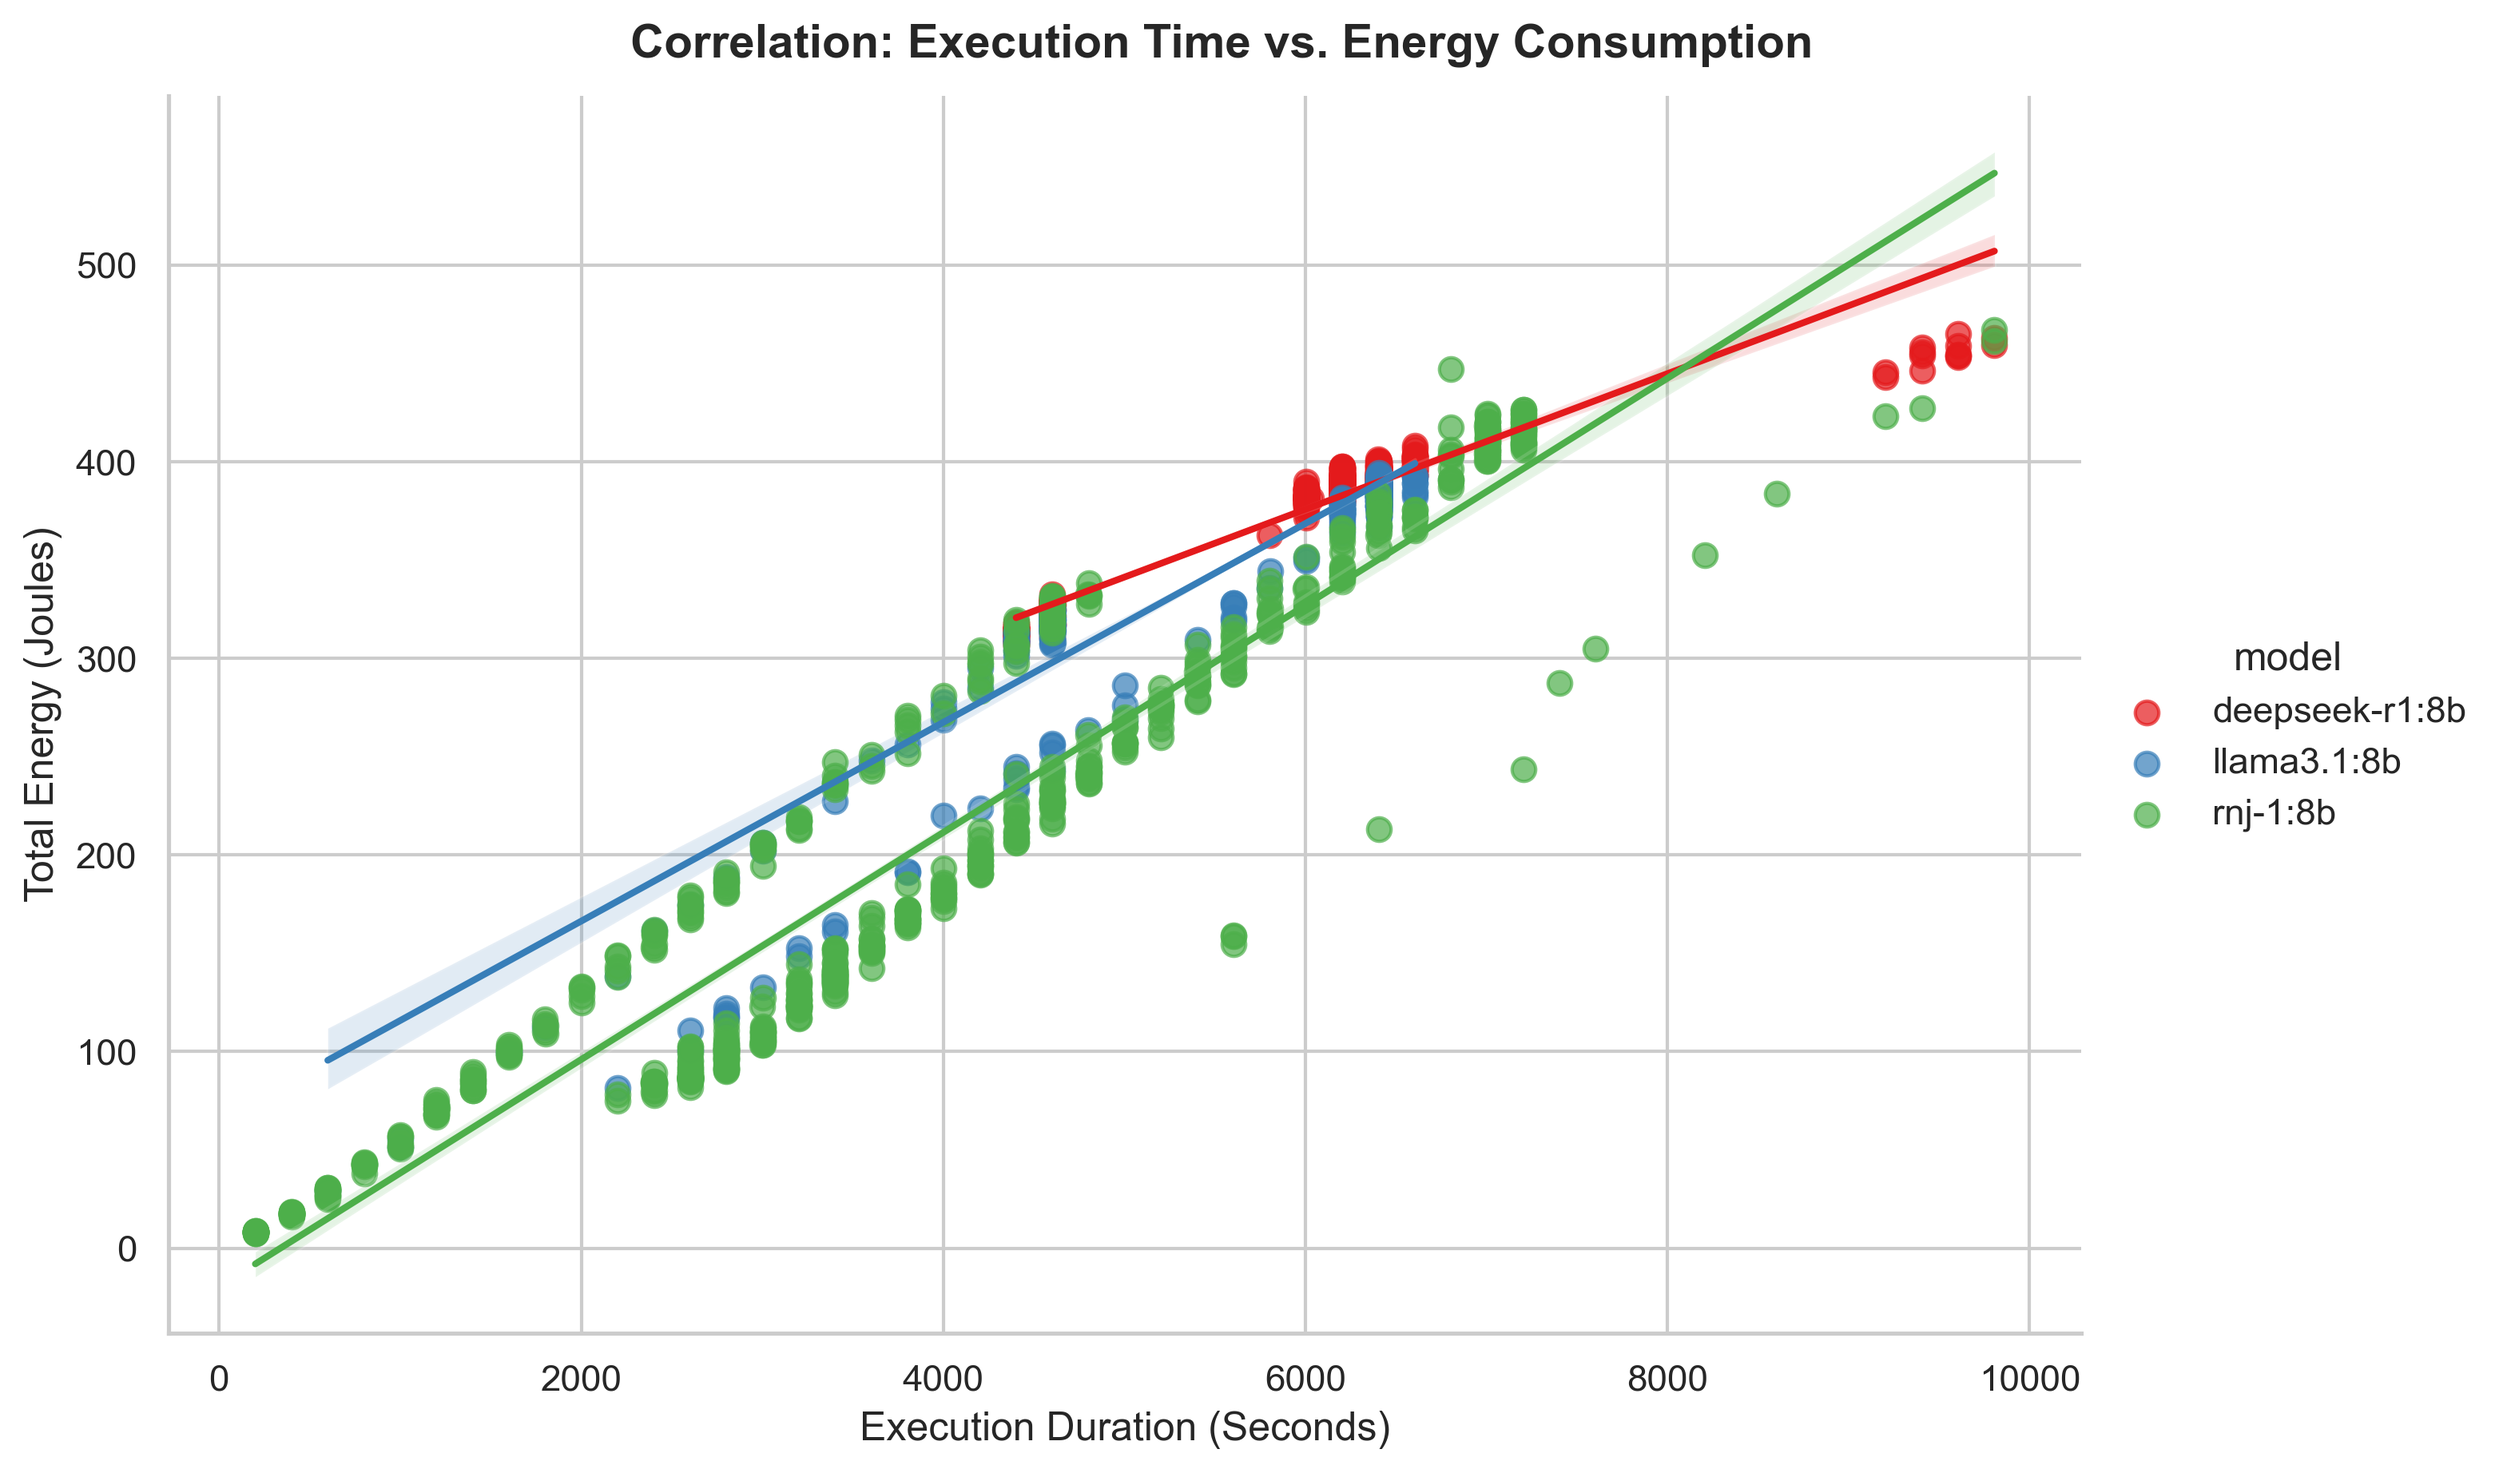
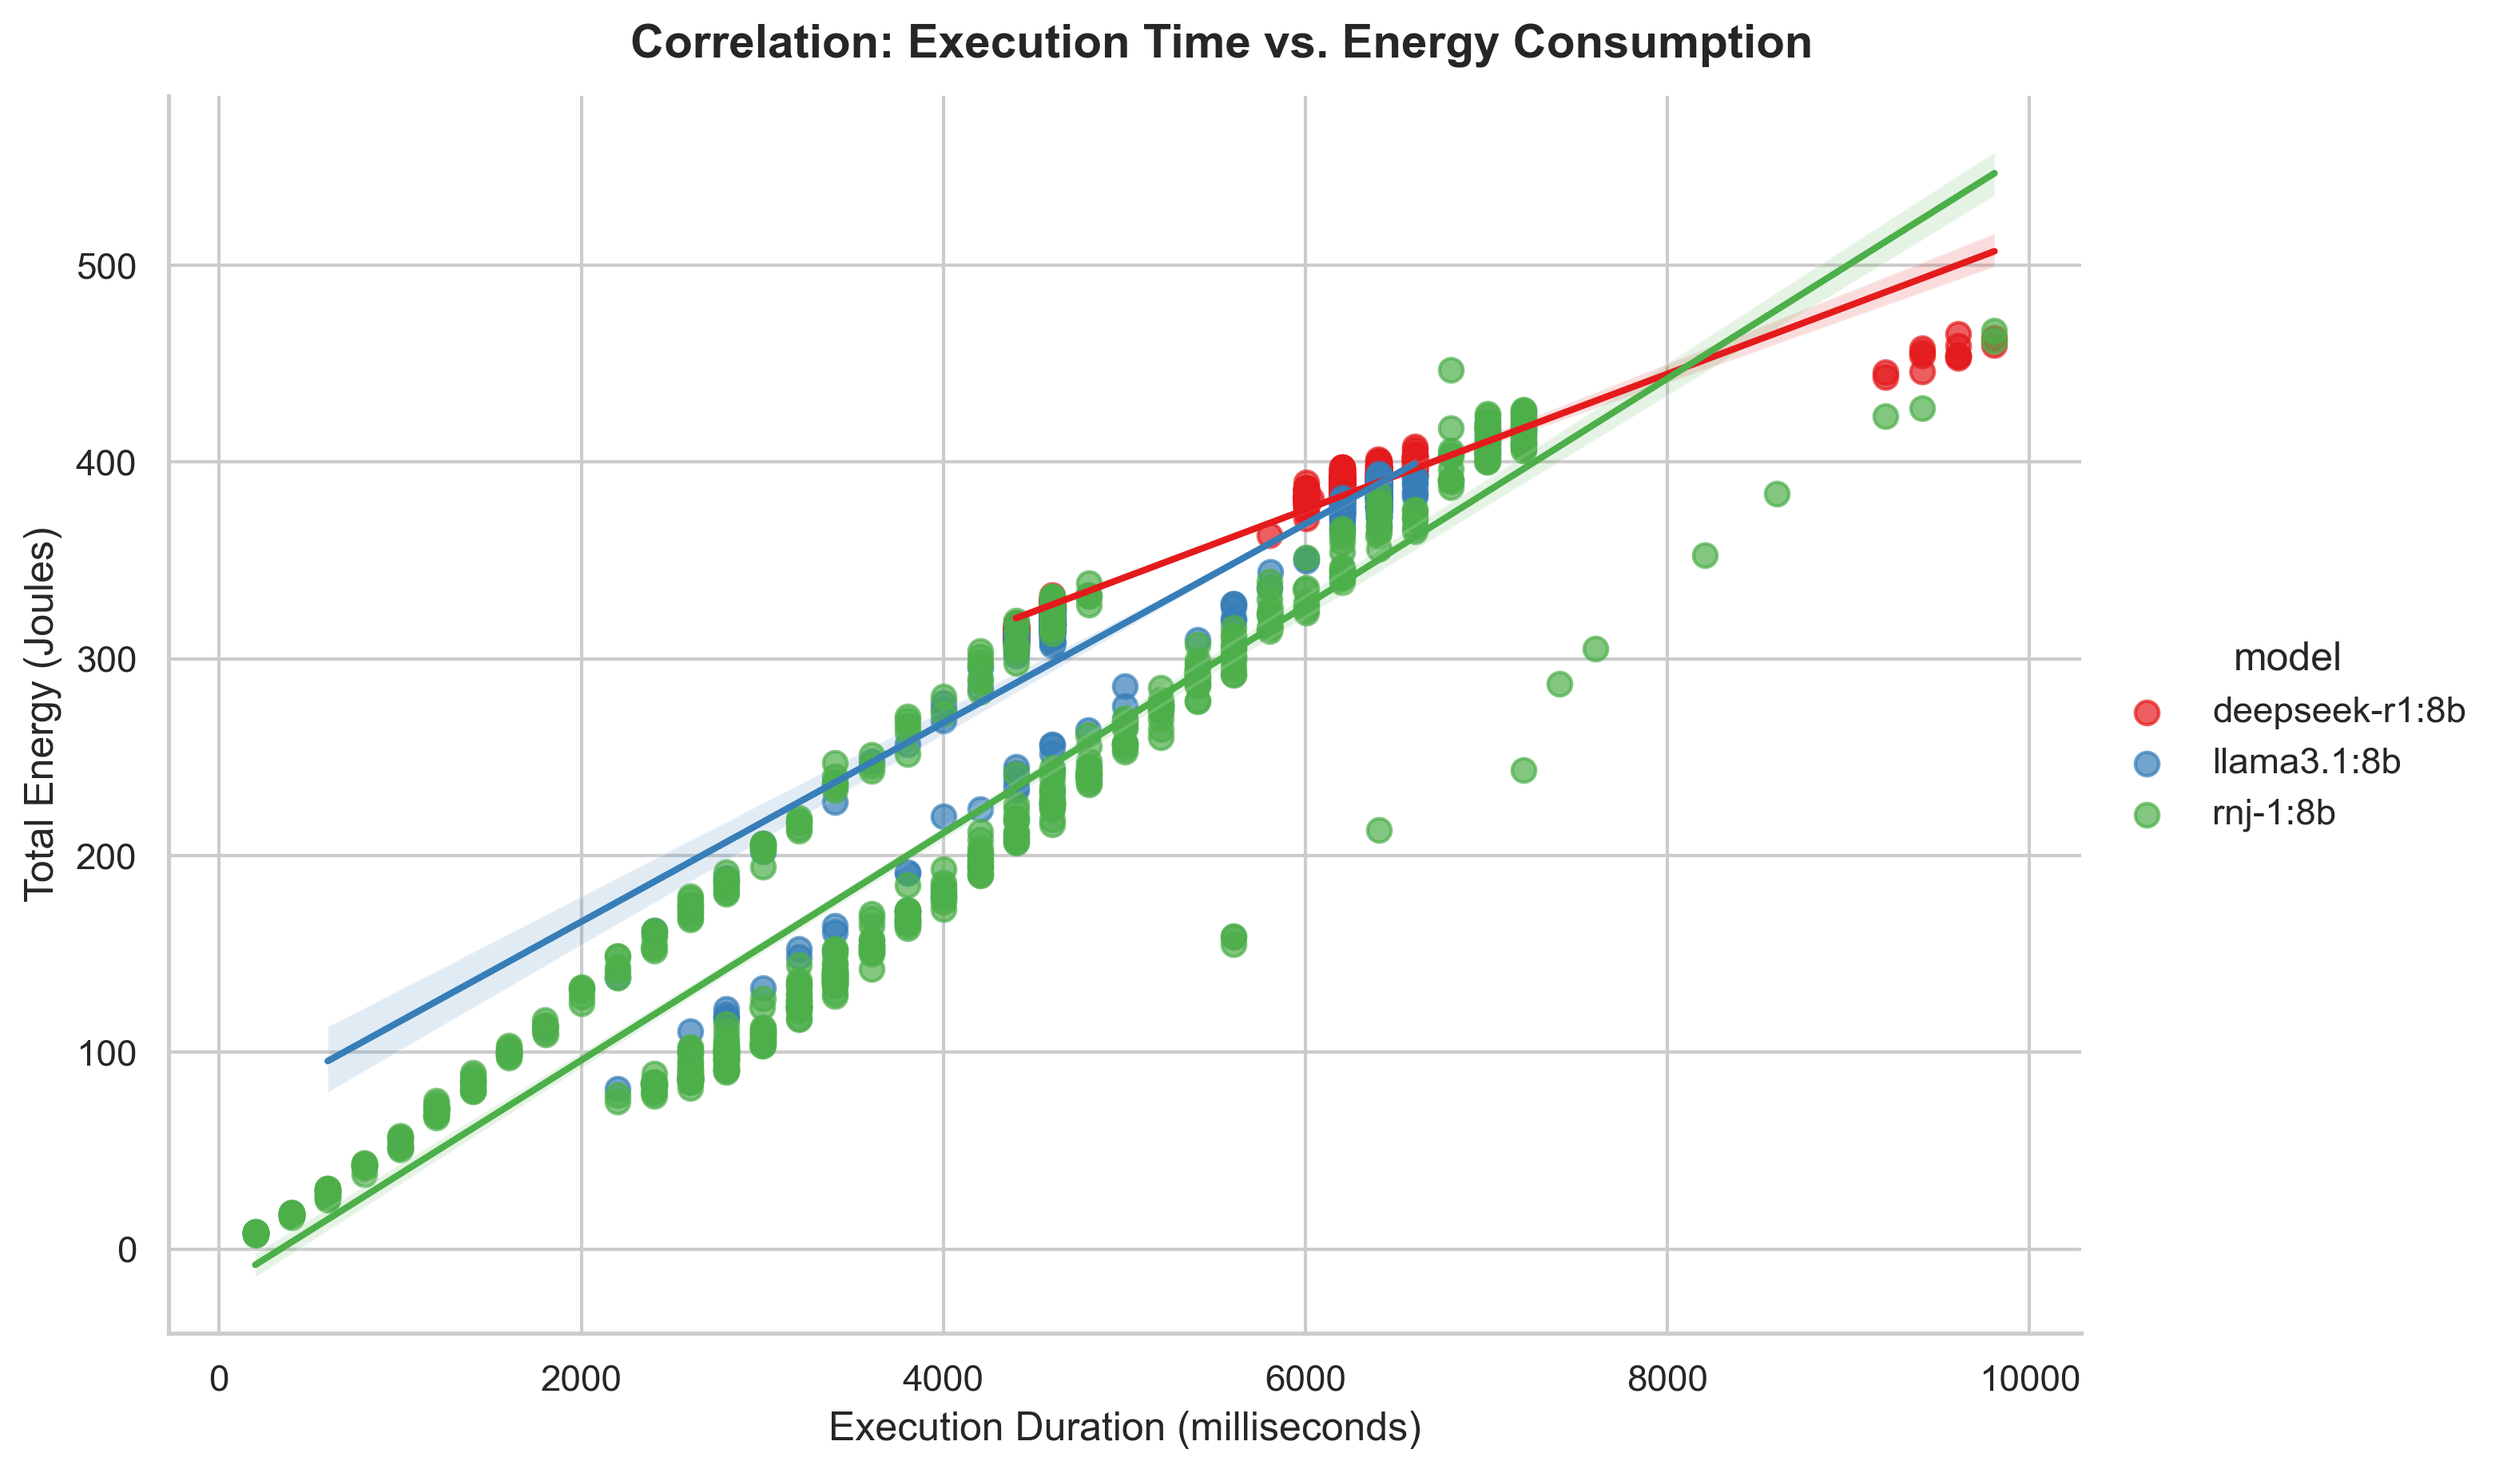
Changed seconds to milliseconds

Changed region(s): [[0.3411, 0.9582, 0.5582, 0.9892]]

diff --git a/2026/p1_measuring_software/g27_llm_response_generation.md b/2026/p1_measuring_software/g27_llm_response_generation.md
@@ -8,12 +8,13 @@ summary: |-
   This study will focus on analysing the energy consumption of two LLM-related tasks. Firstly, we will analyse how the length of a question input prompt affects the energy consumption of an LLM generating a response. Secondly, we will study three different models by three different developers and compare their energy efficiency when generating a response to a question.
 identifier: p1_measuring_software_2026 # Do not change this
 all_projects_page: "../p1_measuring_software" # Do not change this
-<!-- ---
+---
+<!--
 This problem takes another level if we are counting on these measurements to make **groundbreaking research contributions** in this area. Some research projects in the past have underestimated this issue and failed to produce replicable findings. Hence, this article presents a roadmap on how to properly set up a scientific methodology to run energy efficiency experiments. It mostly stems from my previous work on [doing research and publishing](/publications) on Green Software.
 
 This article is divided into two main parts: 1) how to set up energy measurements with minimum bias, and 2) how to analyse and take scientific conclusions from your energy measurements.
 Read on so that we can get your paper accepted in the best scientific conference.
----
+-->
 
 <!-- #### 👉 Note 1:
 
@@ -103,6 +104,10 @@ In the plot below, we can see the average energy consumption of the LLM for each
 
 <img src="img/g27_llm_response_generation/p1_energy_vs_prompt_length_total.png" alt="Energy usage vs prompt length" width="450"/> <img src="img/g27_llm_response_generation/p1_energy_vs_prompt_length_cpu_gpu.png" alt="Energy usage of CPU and GPU vs prompt length" width="450"/>
 
+![My Project Screenshot](img/g27_llm_response_generation/p1_energy_vs_prompt_length_total.png)
+
+
+What we see in the plot below this is that there is 
 <img src="img/g27_llm_response_generation/p1_time_vs_prompt_length.png" alt="" width="450"/>
 
 <img src="img/g27_llm_response_generation/p1_time_vs_energy_correlation.png" alt="" width="450"/>
@@ -113,7 +118,7 @@ In the plot below, we can see the average energy consumption of the LLM for each
 
 Running part two of our experiment took a total of 20 prompts * 30 executions * 3 LLMs = 1800 total response generations. Running this took around 5 hours in total.
 
-<img src="img/g27_llm_response_generation/p2_energy_vs_model_total.png.png" alt="" width="450"/> <img src="img/g27_llm_response_generation/p2_energy_vs_model_cpu_gpu.png" alt="" width="450"/>
+<img src="img/g27_llm_response_generation/p2_energy_vs_model_total.png" alt="" width="450"/> <img src="img/g27_llm_response_generation/p2_energy_vs_model_cpu_gpu.png" alt="" width="450"/>
 
 <img src="img/g27_llm_response_generation/p2_time_vs_energy_correlation.png" alt="" width="450"/>
 
